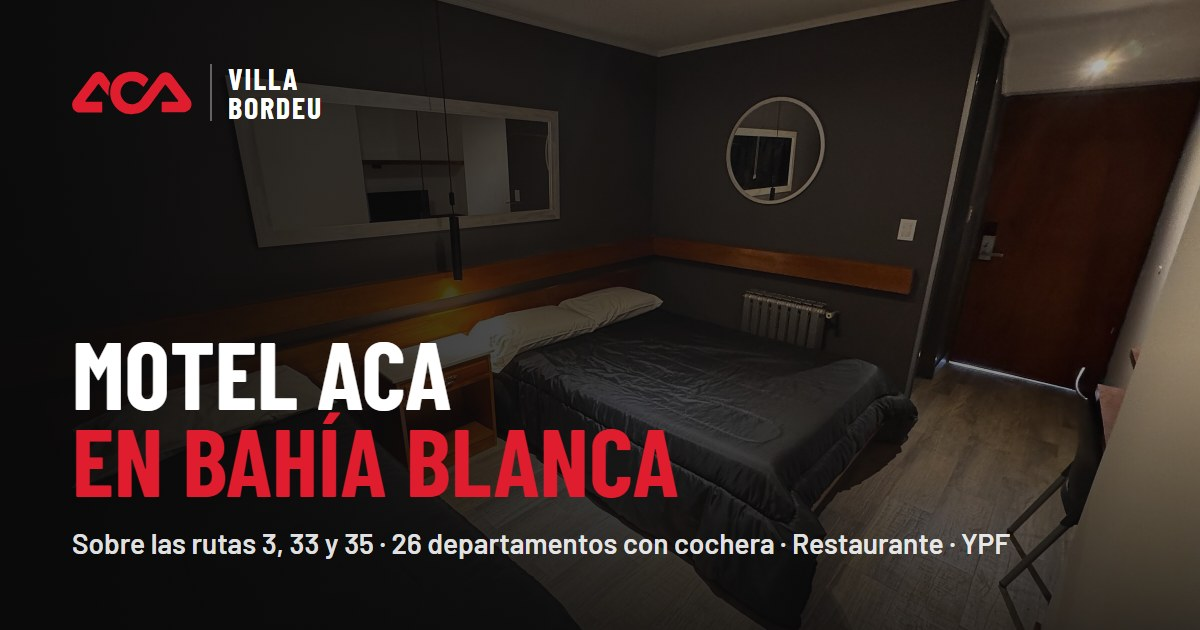
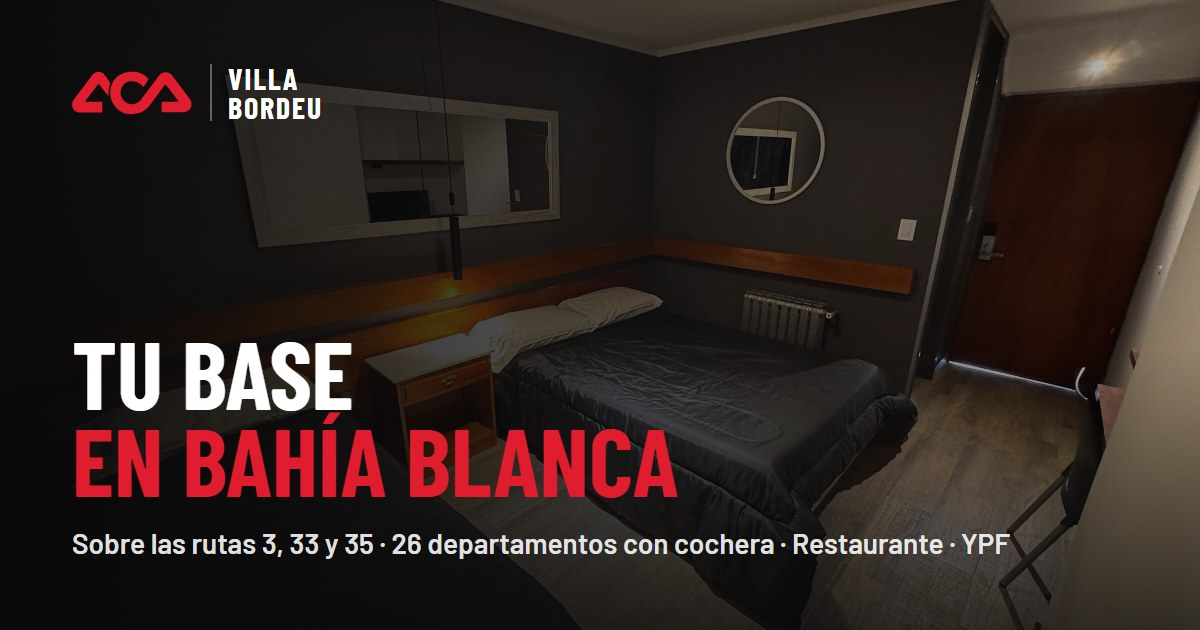
v1: portada «Tu base en Bahía Blanca» con ACA Villa Bordeu como pre-título, sin indicador de scroll ni «motel» en los textos

Changed region(s): [[0.0617, 0.5429, 0.37, 0.6635]]

diff --git a/lib/rutas.ts b/lib/rutas.ts
@@ -12,11 +12,11 @@ export const RUTAS: Ruta[] = [
     rutaNacional: "3",
     title: "Desde Buenos Aires por la Ruta 3 | ACA Villa Bordeu",
     description:
-      "Unos 700 km por la RN 3, por Azul y Tres Arroyos. El último tramo hasta el motel ACA de Bahía Blanca y por qué conviene parar ahí antes de seguir al sur.",
+      "Unos 700 km por la RN 3, por Azul y Tres Arroyos. El último tramo hasta ACA Villa Bordeu, en Bahía Blanca, y por qué conviene parar ahí antes de seguir al sur.",
     h1: "Cómo llegar desde Buenos Aires por la Ruta 3",
     bajada: "Unos 700 km de ruta hasta el acceso de Bahía Blanca, con el auto en la puerta al llegar.",
     citable:
-      "Desde Buenos Aires, ACA Villa Bordeu queda a unos 700 km por la Ruta Nacional 3, que pasa por Azul, Tres Arroyos y Coronel Dorrego. Son alrededor de 9 horas de manejo sin paradas. El motel del Automóvil Club Argentino está en el acceso de las rutas 3 y 33, en Villa Bordeu, al suroeste de Bahía Blanca.",
+      "Desde Buenos Aires, ACA Villa Bordeu queda a unos 700 km por la Ruta Nacional 3, que pasa por Azul, Tres Arroyos y Coronel Dorrego. Son alrededor de 9 horas de manejo sin paradas. El alojamiento del Automóvil Club Argentino está en el acceso de las rutas 3 y 33, en Villa Bordeu, al suroeste de Bahía Blanca.",
     km: 701,
     horas: "9 h",
     pasaPor: ["Cañuelas", "San Miguel del Monte", "Las Flores", "Azul", "Adolfo Gonzales Chaves", "Tres Arroyos", "Coronel Dorrego"],
@@ -58,11 +58,11 @@ export const RUTAS: Ruta[] = [
     rutaNacional: "22",
     title: "Desde Neuquén por la Ruta 22 | ACA Villa Bordeu",
     description:
-      "Unos 527 km por la RN 22, por el Alto Valle, Choele Choel y Río Colorado. Llegás al motel ACA de Bahía Blanca por la RN 3 sin entrar a la ciudad.",
+      "Unos 527 km por la RN 22, por el Alto Valle, Choele Choel y Río Colorado. Llegás a ACA Villa Bordeu, en Bahía Blanca, por la RN 3 sin entrar a la ciudad.",
     h1: "Cómo llegar desde Neuquén por la Ruta 22",
     bajada: "Del Alto Valle a Bahía Blanca por la RN 22, y llegás sin entrar a la ciudad.",
     citable:
-      "Desde Neuquén, ACA Villa Bordeu queda a unos 527 km por la Ruta Nacional 22, que pasa por el Alto Valle, Choele Choel, Río Colorado y Médanos. Son alrededor de 6 horas 50 minutos de manejo sin paradas. La RN 22 termina en la RN 3, al sur de Bahía Blanca, y desde ahí el motel del Automóvil Club Argentino queda a pocos minutos sin cruzar la ciudad.",
+      "Desde Neuquén, ACA Villa Bordeu queda a unos 527 km por la Ruta Nacional 22, que pasa por el Alto Valle, Choele Choel, Río Colorado y Médanos. Son alrededor de 6 horas 50 minutos de manejo sin paradas. La RN 22 termina en la RN 3, al sur de Bahía Blanca, y desde ahí el alojamiento del Automóvil Club Argentino queda a pocos minutos sin cruzar la ciudad.",
     km: 527,
     horas: "6 h 50 min",
     pasaPor: ["Cipolletti", "General Roca", "Villa Regina", "Choele Choel", "Río Colorado", "Médanos"],
@@ -104,11 +104,11 @@ export const RUTAS: Ruta[] = [
     rutaNacional: "33",
     title: "Desde Rosario por la Ruta 33 | ACA Villa Bordeu",
     description:
-      "Unos 814 km por la RN 33, por Venado Tuerto, Trenque Lauquen y Pigüé. La ruta termina en el cruce donde está el motel ACA de Bahía Blanca. Mirá el recorrido.",
+      "Unos 814 km por la RN 33, por Venado Tuerto, Trenque Lauquen y Pigüé. La ruta termina en el cruce donde está ACA Villa Bordeu, en Bahía Blanca. Mirá el recorrido.",
     h1: "Cómo llegar desde Rosario por la Ruta 33",
     bajada: "La RN 33 termina en el mismo cruce donde está el complejo.",
     citable:
-      "Desde Rosario, ACA Villa Bordeu queda a unos 814 km por la Ruta Nacional 33, que pasa por Venado Tuerto, Rufino, Trenque Lauquen, Pigüé y Tornquist. Son alrededor de 10 horas de manejo sin paradas. La RN 33 termina en la RN 3, en el suroeste de Bahía Blanca, y el motel del Automóvil Club Argentino está sobre ese acceso.",
+      "Desde Rosario, ACA Villa Bordeu queda a unos 814 km por la Ruta Nacional 33, que pasa por Venado Tuerto, Rufino, Trenque Lauquen, Pigüé y Tornquist. Son alrededor de 10 horas de manejo sin paradas. La RN 33 termina en la RN 3, en el suroeste de Bahía Blanca, y el alojamiento del Automóvil Club Argentino está sobre ese acceso.",
     km: 814,
     horas: "10 h 10 min",
     pasaPor: ["Casilda", "Firmat", "Venado Tuerto", "Rufino", "General Villegas", "Trenque Lauquen", "Guaminí", "Pigüé", "Tornquist"],
@@ -150,11 +150,11 @@ export const RUTAS: Ruta[] = [
     rutaNacional: "35",
     title: "Desde Santa Rosa por la Ruta 35 | ACA Villa Bordeu",
     description:
-      "Unos 322 km por la RN 35 desde La Pampa, unas 4 horas de manejo. La ruta llega a Bahía Blanca justo en Villa Bordeu, donde está el motel ACA. Mirá el recorrido.",
+      "Unos 322 km por la RN 35 desde La Pampa, unas 4 horas de manejo. La ruta llega a Bahía Blanca justo en Villa Bordeu, donde está ACA Villa Bordeu. Mirá el recorrido.",
     h1: "Cómo llegar desde Santa Rosa por la Ruta 35",
     bajada: "De La Pampa a Bahía Blanca: la RN 35 llega justo a Villa Bordeu.",
     citable:
-      "Desde Santa Rosa, La Pampa, ACA Villa Bordeu queda a unos 322 km por la Ruta Nacional 35: alrededor de 4 horas de manejo sin paradas. La RN 35 entra a Bahía Blanca por Villa Bordeu, donde está el motel del Automóvil Club Argentino, junto al cruce con la RN 33.",
+      "Desde Santa Rosa, La Pampa, ACA Villa Bordeu queda a unos 322 km por la Ruta Nacional 35: alrededor de 4 horas de manejo sin paradas. La RN 35 entra a Bahía Blanca por Villa Bordeu, donde está el alojamiento del Automóvil Club Argentino, junto al cruce con la RN 33.",
     km: 322,
     horas: "4 h",
     pasaPor: ["Ataliva Roca", "Bernasconi", "General San Martín", "Jacinto Aráuz", "Villa Iris"],
@@ -196,11 +196,11 @@ export const RUTAS: Ruta[] = [
     rutaNacional: "3",
     title: "Desde la Patagonia por la Ruta 3 | ACA Villa Bordeu",
     description:
-      "Desde Viedma son unos 271 km por la RN 3, por Pedro Luro y Mayor Buratovich. Llegás al motel ACA de Bahía Blanca sin entrar a la ciudad. Mirá el recorrido.",
+      "Desde Viedma son unos 271 km por la RN 3, por Pedro Luro y Mayor Buratovich. Llegás a ACA Villa Bordeu, en Bahía Blanca, sin entrar a la ciudad. Mirá el recorrido.",
     h1: "Cómo llegar desde la Patagonia por la Ruta 3",
     bajada: "De Viedma hacia el norte por la RN 3: la primera parada ACA de la provincia de Buenos Aires.",
     citable:
-      "Desde Viedma, ACA Villa Bordeu queda a unos 271 km por la Ruta Nacional 3, que pasa por Carmen de Patagones, Pedro Luro y Mayor Buratovich. Son alrededor de 3 horas 40 minutos de manejo sin paradas. El motel del Automóvil Club Argentino está en Villa Bordeu, en el acceso suroeste de Bahía Blanca, y se llega desde el sur sin cruzar la ciudad.",
+      "Desde Viedma, ACA Villa Bordeu queda a unos 271 km por la Ruta Nacional 3, que pasa por Carmen de Patagones, Pedro Luro y Mayor Buratovich. Son alrededor de 3 horas 40 minutos de manejo sin paradas. El alojamiento del Automóvil Club Argentino está en Villa Bordeu, en el acceso suroeste de Bahía Blanca, y se llega desde el sur sin cruzar la ciudad.",
     km: 271,
     horas: "3 h 40 min",
     pasaPor: ["Viedma", "Carmen de Patagones", "Stroeder", "Villalonga", "Pedro Luro", "Hilario Ascasubi", "Mayor Buratovich"],

diff --git a/lib/rubros.ts b/lib/rubros.ts
@@ -14,7 +14,7 @@ export const RUBROS: Rubro[] = [
     h1: "Alojamiento para personal del Polo Petroquímico",
     bajada: "A 12 km de Ingeniero White, con la camioneta bajo techo frente a cada departamento.",
     citable:
-      "ACA Villa Bordeu es el motel del Automóvil Club Argentino en Bahía Blanca, a 12 km del Polo Petroquímico de Ingeniero White y de Puerto Galván. Tiene 26 departamentos con cochera cubierta en la puerta, restaurante, lavandería y recepción las 24 horas. Las empresas consultan por WhatsApp o por mail.",
+      "ACA Villa Bordeu es el alojamiento del Automóvil Club Argentino en Bahía Blanca, a 12 km del Polo Petroquímico de Ingeniero White y de Puerto Galván. Tiene 26 departamentos con cochera cubierta en la puerta, restaurante, lavandería y recepción las 24 horas. Las empresas consultan por WhatsApp o por mail.",
     distancias: [
       { lugar: "Polo Petroquímico (Ingeniero White)", km: 12, min: 20 },
       { lugar: "Puerto Galván", km: 12, min: 20 },
@@ -84,7 +84,7 @@ export const RUBROS: Rubro[] = [
     h1: "Alojamiento para equipos de energía en Bahía Blanca",
     bajada: "Para obras de gas, ductos y parques eólicos: salís a la ruta que toque desde el mismo cruce.",
     citable:
-      "ACA Villa Bordeu, el motel del Automóvil Club Argentino en Bahía Blanca, está en el suroeste de la ciudad, donde se cruzan las rutas nacionales 3, 33 y 35, cerca del empalme con la RN 22. Queda a 7 km de General Cerri y a 12 km de Puerto Galván. Tiene 26 departamentos con cochera cubierta y estación de servicio YPF en el predio.",
+      "ACA Villa Bordeu, el alojamiento del Automóvil Club Argentino en Bahía Blanca, está en el suroeste de la ciudad, donde se cruzan las rutas nacionales 3, 33 y 35, cerca del empalme con la RN 22. Queda a 7 km de General Cerri y a 12 km de Puerto Galván. Tiene 26 departamentos con cochera cubierta y estación de servicio YPF en el predio.",
     distancias: [
       { lugar: "General Daniel Cerri", km: 7, min: 10 },
       { lugar: "Puerto Galván", km: 12, min: 20 },
@@ -150,7 +150,7 @@ export const RUBROS: Rubro[] = [
     h1: "Alojamiento para obra vial y transporte en Bahía Blanca",
     bajada: "Estás en el cruce: cada mañana salís a la ruta que te toca.",
     citable:
-      "ACA Villa Bordeu es el motel del Automóvil Club Argentino sobre el acceso de las rutas nacionales 3 y 33, en el suroeste de Bahía Blanca, la zona donde Vialidad Nacional ubica la confluencia de las rutas 3, 33, 22, 35 y 252. Tiene 26 departamentos con cochera cubierta, restaurante, recepción 24 horas y estación YPF.",
+      "ACA Villa Bordeu es el alojamiento del Automóvil Club Argentino sobre el acceso de las rutas nacionales 3 y 33, en el suroeste de Bahía Blanca, la zona donde Vialidad Nacional ubica la confluencia de las rutas 3, 33, 22, 35 y 252. Tiene 26 departamentos con cochera cubierta, restaurante, recepción 24 horas y estación YPF.",
     distancias: [
       { lugar: "Médanos (RN 22)", km: 39, min: 35 },
       { lugar: "Tornquist (RN 33)", km: 74, min: 60 },
@@ -215,7 +215,7 @@ export const RUBROS: Rubro[] = [
     h1: "Alojamiento para el agro en Bahía Blanca",
     bajada: "Al lado del predio de la Rural y sobre las rutas que traen la cosecha al puerto.",
     citable:
-      "ACA Villa Bordeu es el motel del Automóvil Club Argentino en Villa Bordeu, Bahía Blanca, pegado al predio de la Sociedad Rural donde se hace la exposición anual. Está sobre las rutas 33 y 35, que llegan desde la zona agrícola, y a 12 km del puerto de Ingeniero White. Tiene 26 departamentos con cochera cubierta y restaurante.",
+      "ACA Villa Bordeu es el alojamiento del Automóvil Club Argentino en Villa Bordeu, Bahía Blanca, pegado al predio de la Sociedad Rural donde se hace la exposición anual. Está sobre las rutas 33 y 35, que llegan desde la zona agrícola, y a 12 km del puerto de Ingeniero White. Tiene 26 departamentos con cochera cubierta y restaurante.",
     distancias: [
       { lugar: "Predio de la Sociedad Rural", km: 1, min: 5 },
       { lugar: "Puerto de Ingeniero White", km: 12, min: 20 },

diff --git a/lib/cerca.ts b/lib/cerca.ts
@@ -14,7 +14,7 @@ export const LUGARES: LugarCerca[] = [
     h1: "Hotel cerca del Polo Petroquímico de Bahía Blanca",
     bajada: "Ingeniero White y Puerto Galván, a unos 20 minutos del complejo.",
     citable:
-      "ACA Villa Bordeu, el motel del Automóvil Club Argentino en Bahía Blanca, queda a 12 km del Polo Petroquímico de Ingeniero White, unos 20 minutos en auto. Puerto Galván está a la misma distancia. Tiene 26 departamentos con cochera cubierta frente a cada uno, restaurante y recepción las 24 horas.",
+      "ACA Villa Bordeu, el alojamiento del Automóvil Club Argentino en Bahía Blanca, queda a 12 km del Polo Petroquímico de Ingeniero White, unos 20 minutos en auto. Puerto Galván está a la misma distancia. Tiene 26 departamentos con cochera cubierta frente a cada uno, restaurante y recepción las 24 horas.",
     distancia: { lugar: "Polo Petroquímico (Ingeniero White)", km: 12, min: 20 },
     textos: [
       "El Polo Petroquímico está en Ingeniero White, sobre la ría, al sur de Bahía Blanca. El complejo está en Villa Bordeu, en el acceso suroeste de la ciudad: son 12 km, unos 20 minutos medidos sin tránsito.",
@@ -57,7 +57,7 @@ export const LUGARES: LugarCerca[] = [
     h1: "Hotel cerca de General Cerri",
     bajada: "Cerri queda a 7 km por la RN 3, unos 10 minutos.",
     citable:
-      "ACA Villa Bordeu, el motel del Automóvil Club Argentino en Bahía Blanca, queda a 7 km de General Daniel Cerri, unos 10 minutos por la Ruta Nacional 3. Tiene 26 departamentos con cochera cubierta frente a cada uno, restaurante y estación de servicio YPF.",
+      "ACA Villa Bordeu, el alojamiento del Automóvil Club Argentino en Bahía Blanca, queda a 7 km de General Daniel Cerri, unos 10 minutos por la Ruta Nacional 3. Tiene 26 departamentos con cochera cubierta frente a cada uno, restaurante y estación de servicio YPF.",
     distancia: { lugar: "General Daniel Cerri", km: 7, min: 10 },
     textos: [
       "General Daniel Cerri es una localidad del partido de Bahía Blanca, al suroeste de la ciudad, sobre la RN 3. Villa Bordeu está en el mismo lado de la ciudad: entre uno y otro hay 7 km de ruta.",
@@ -94,7 +94,7 @@ export const LUGARES: LugarCerca[] = [
     h1: "Alojamiento cerca del aeropuerto de Bahía Blanca",
     bajada: "Del aeropuerto Comandante Espora al complejo, unos 35 minutos.",
     citable:
-      "ACA Villa Bordeu, el motel del Automóvil Club Argentino en Bahía Blanca, queda a 23 km del aeropuerto Comandante Espora, unos 35 minutos en auto. Tiene recepción las 24 horas, 26 departamentos con cochera cubierta y restaurante en el mismo predio.",
+      "ACA Villa Bordeu, el alojamiento del Automóvil Club Argentino en Bahía Blanca, queda a 23 km del aeropuerto Comandante Espora, unos 35 minutos en auto. Tiene recepción las 24 horas, 26 departamentos con cochera cubierta y restaurante en el mismo predio.",
     distancia: { lugar: "Aeropuerto Comandante Espora", km: 23, min: 35 },
     textos: [
       "El aeropuerto Comandante Espora está al este de Bahía Blanca. El complejo está en el extremo opuesto, en el suroeste, sobre el cruce de las rutas: son 23 km, unos 35 minutos medidos sin tránsito.",
@@ -135,7 +135,7 @@ export const LUGARES: LugarCerca[] = [
     h1: "Hotel al lado de la Sociedad Rural de Bahía Blanca",
     bajada: "El predio de la exposición está pegado al complejo, en Villa Bordeu.",
     citable:
-      "ACA Villa Bordeu, el motel del Automóvil Club Argentino en Bahía Blanca, está pegado al predio de la Sociedad Rural de Bahía Blanca, en Villa Bordeu, donde se hace la exposición rural anual. El acceso al predio queda a 1 km del complejo, sobre el Camino Parque Sesquicentenario.",
+      "ACA Villa Bordeu, el alojamiento del Automóvil Club Argentino en Bahía Blanca, está pegado al predio de la Sociedad Rural de Bahía Blanca, en Villa Bordeu, donde se hace la exposición rural anual. El acceso al predio queda a 1 km del complejo, sobre el Camino Parque Sesquicentenario.",
     distancia: {
       lugar: "Acceso a la Sociedad Rural",
       km: 1,

diff --git a/components/secciones/Hero.tsx b/components/secciones/Hero.tsx
@@ -45,8 +45,11 @@ export function Hero() {
       </div>
 
       <div data-hero-contenido className="contenedor relative z-10 flex w-full flex-col items-center pt-[calc(var(--header-h)+28px)] pb-[clamp(40px,9svh,104px)] text-center">
-        <h1 className="hero-in w-full max-w-5xl [text-shadow:0_2px_28px_rgb(0_0_0/0.45)]" style={vars(0)}>
-          <span className="t-display block">Motel ACA en Bahía Blanca</span>
+        <p className="hero-in text-[13px] font-semibold tracking-[0.28em] text-white/80 uppercase" style={vars(0)}>
+          ACA Villa Bordeu
+        </p>
+        <h1 className="hero-in mt-3 w-full max-w-5xl [text-shadow:0_2px_28px_rgb(0_0_0/0.45)]" style={vars(0)}>
+          <span className="t-display block">Tu base en Bahía Blanca</span>
           <span className="mt-2 block font-display text-[clamp(22px,2.8vw,44px)] leading-tight font-semibold text-white/90 uppercase">
             Sobre el cruce de las rutas <span className="text-rojo">3, 33 y 35</span>
           </span>
@@ -64,12 +67,6 @@ export function Hero() {
           </Link>
         </div>
 
-        <a href="#predio" aria-label="Bajar" className="hero-in mt-10 hidden flex-col items-center gap-2 text-[11px] font-semibold tracking-[0.24em] text-white/60 uppercase md:flex" style={vars(3)}>
-          Conocé el lugar
-          <span className="relative block h-10 w-px overflow-hidden bg-white/20">
-            <span className="baja-linea absolute inset-0 bg-white" />
-          </span>
-        </a>
       </div>
     </section>
   );

diff --git a/app/socios-aca/page.tsx b/app/socios-aca/page.tsx
@@ -10,7 +10,7 @@ import { Cierre, Citable, FaqLista, PortadaPagina } from "@/components/secciones
 export const metadata = meta({
   title: "Socios ACA: hotel en Bahía Blanca · ACA Villa Bordeu",
   description:
-    "Villa Bordeu es el motel de la Red Hotelera del Automóvil Club Argentino en Bahía Blanca, primera parada del corredor patagónico. Beneficios para socios.",
+    "Villa Bordeu es el alojamiento de la Red Hotelera del Automóvil Club Argentino en Bahía Blanca, primera parada del corredor patagónico. Beneficios para socios.",
   ruta: "/socios-aca",
 });
 
@@ -60,7 +60,7 @@ export default function Socios() {
       </PortadaPagina>
 
       <Citable>
-        ACA Villa Bordeu es el motel del Automóvil Club Argentino en Bahía Blanca. Integra la Red Hotelera ACA, con beneficios para socios, y es la primera
+        ACA Villa Bordeu es el alojamiento del Automóvil Club Argentino en Bahía Blanca. Integra la Red Hotelera ACA, con beneficios para socios, y es la primera
         parada de la red en el corredor hacia la Patagonia.
       </Citable>
 

diff --git a/app/llms.txt/route.ts b/app/llms.txt/route.ts
@@ -13,7 +13,7 @@ export function GET() {
   const l: string[] = [];
   l.push(`# ${SITIO.nombre}`, "");
   l.push(
-    `> Motel del Automóvil Club Argentino en Bahía Blanca, sobre el cruce de las rutas nacionales 3, 33 y 35. ${SITIO.departamentos} departamentos con cochera cubierta, restaurante desde ${SITIO.restoDesde}, gimnasio, sala de reuniones, lavandería, recepción 24 horas, pet friendly y estación de servicio YPF en el mismo predio. Aloja equipos de trabajo de empresas y viajeros de ruta.`,
+    `> Alojamiento del Automóvil Club Argentino en Bahía Blanca (categoría Motel 3★ en la Red Hotelera ACA), sobre el cruce de las rutas nacionales 3, 33 y 35. ${SITIO.departamentos} departamentos con cochera cubierta, restaurante desde ${SITIO.restoDesde}, gimnasio, sala de reuniones, lavandería, recepción 24 horas, pet friendly y estación de servicio YPF en el mismo predio. Aloja equipos de trabajo de empresas y viajeros de ruta.`,
     "",
   );
   l.push("## Datos", "");

diff --git a/app/layout.tsx b/app/layout.tsx
@@ -19,11 +19,11 @@ const barlowCondensed = Barlow_Condensed({ subsets: ["latin"], weight: ["600", "
 export const metadata: Metadata = {
   metadataBase: new URL(SITIO.url),
   title: {
-    default: "ACA Villa Bordeu · Motel y departamentos en Bahía Blanca",
+    default: "ACA Villa Bordeu · Alojamiento y departamentos en Bahía Blanca",
     template: "%s",
   },
   description:
-    "Motel del ACA sobre las rutas 3, 33 y 35 en Bahía Blanca: 26 departamentos con cochera, restaurante, gimnasio y estación YPF. Ideal para equipos de trabajo.",
+    "Alojamiento del ACA sobre las rutas 3, 33 y 35 en Bahía Blanca: 26 departamentos con cochera, restaurante, gimnasio y estación YPF. Ideal para equipos de trabajo.",
   applicationName: SITIO.nombre,
   category: "travel",
   verification: {

diff --git a/components/layout/Footer.tsx b/components/layout/Footer.tsx
@@ -44,7 +44,7 @@ export function Footer() {
           <div>
             <LogoACA className="h-10 w-auto text-rojo" titulo="Automóvil Club Argentino" />
             <p className="mt-5 max-w-[30ch] text-white/70">
-              Motel del Automóvil Club Argentino sobre el cruce de las rutas 3, 33 y 35, en Bahía Blanca.
+              Alojamiento del Automóvil Club Argentino sobre el cruce de las rutas 3, 33 y 35, en Bahía Blanca.
             </p>
             <address className="mt-6 space-y-2.5 not-italic">
               <a href={MAPAS.google} target="_blank" rel="noopener noreferrer" className="flex gap-3 text-white/85 hover:text-white">

diff --git a/app/estacion-de-servicio/page.tsx b/app/estacion-de-servicio/page.tsx
@@ -53,8 +53,8 @@ export default function EstacionDeServicio() {
       </PortadaPagina>
 
       <Citable>
-        La estación de servicio ACA YPF de Villa Bordeu está en el acceso de las rutas nacionales 3 y 33, en Bahía Blanca, dentro del mismo predio que el motel
-        y el restaurante del Automóvil Club Argentino.
+        La estación de servicio ACA YPF de Villa Bordeu está en el acceso de las rutas nacionales 3 y 33, en Bahía Blanca, dentro del mismo predio que los
+        departamentos y el restaurante del Automóvil Club Argentino.
       </Citable>
 
       <section className="seccion-chica">

diff --git a/app/sala-de-reuniones/page.tsx b/app/sala-de-reuniones/page.tsx
@@ -9,7 +9,7 @@ import { Cierre, Citable, FaqLista, PortadaPagina } from "@/components/secciones
 export const metadata = meta({
   title: "Sala de reuniones en Bahía Blanca · ACA Villa Bordeu",
   description:
-    "Sala de reuniones con mesa para el equipo y pantalla, dentro del motel ACA sobre la ruta en Bahía Blanca. Para capacitaciones, inducciones y reuniones de obra.",
+    "Sala de reuniones con mesa para el equipo y pantalla, dentro de ACA Villa Bordeu, sobre la ruta en Bahía Blanca. Para capacitaciones, inducciones y reuniones de obra.",
   ruta: "/sala-de-reuniones",
 });
 

diff --git a/app/historia/page.tsx b/app/historia/page.tsx
@@ -7,7 +7,7 @@ import { Cierre, PortadaPagina } from "@/components/secciones/Comunes";
 export const metadata = meta({
   title: "Nuestra historia · ACA Villa Bordeu, Bahía Blanca",
   description:
-    "Del Automóvil Club Argentino de 1904 al motel de Villa Bordeu en el cruce de rutas de Bahía Blanca, con el Resto que cocina desde 1984. Una historia de ruta.",
+    "Del Automóvil Club Argentino de 1904 a ACA Villa Bordeu, en el cruce de rutas de Bahía Blanca, con el Resto que cocina desde 1984. Una historia de ruta.",
   ruta: "/historia",
 });
 

diff --git a/lib/sitio.ts b/lib/sitio.ts
@@ -12,7 +12,7 @@ const host =
 
 export const SITIO = {
   nombre: "ACA Villa Bordeu",
-  nombreLargo: "ACA Villa Bordeu · Motel del Automóvil Club Argentino en Bahía Blanca",
+  nombreLargo: "ACA Villa Bordeu · Alojamiento del Automóvil Club Argentino en Bahía Blanca",
   url: host.replace(/\/$/, ""),
   // Hasta publicar en el dominio, el sitio no se indexa (ver app/robots.ts).
   indexable: process.env.NEXT_PUBLIC_INDEXABLE === "1",
